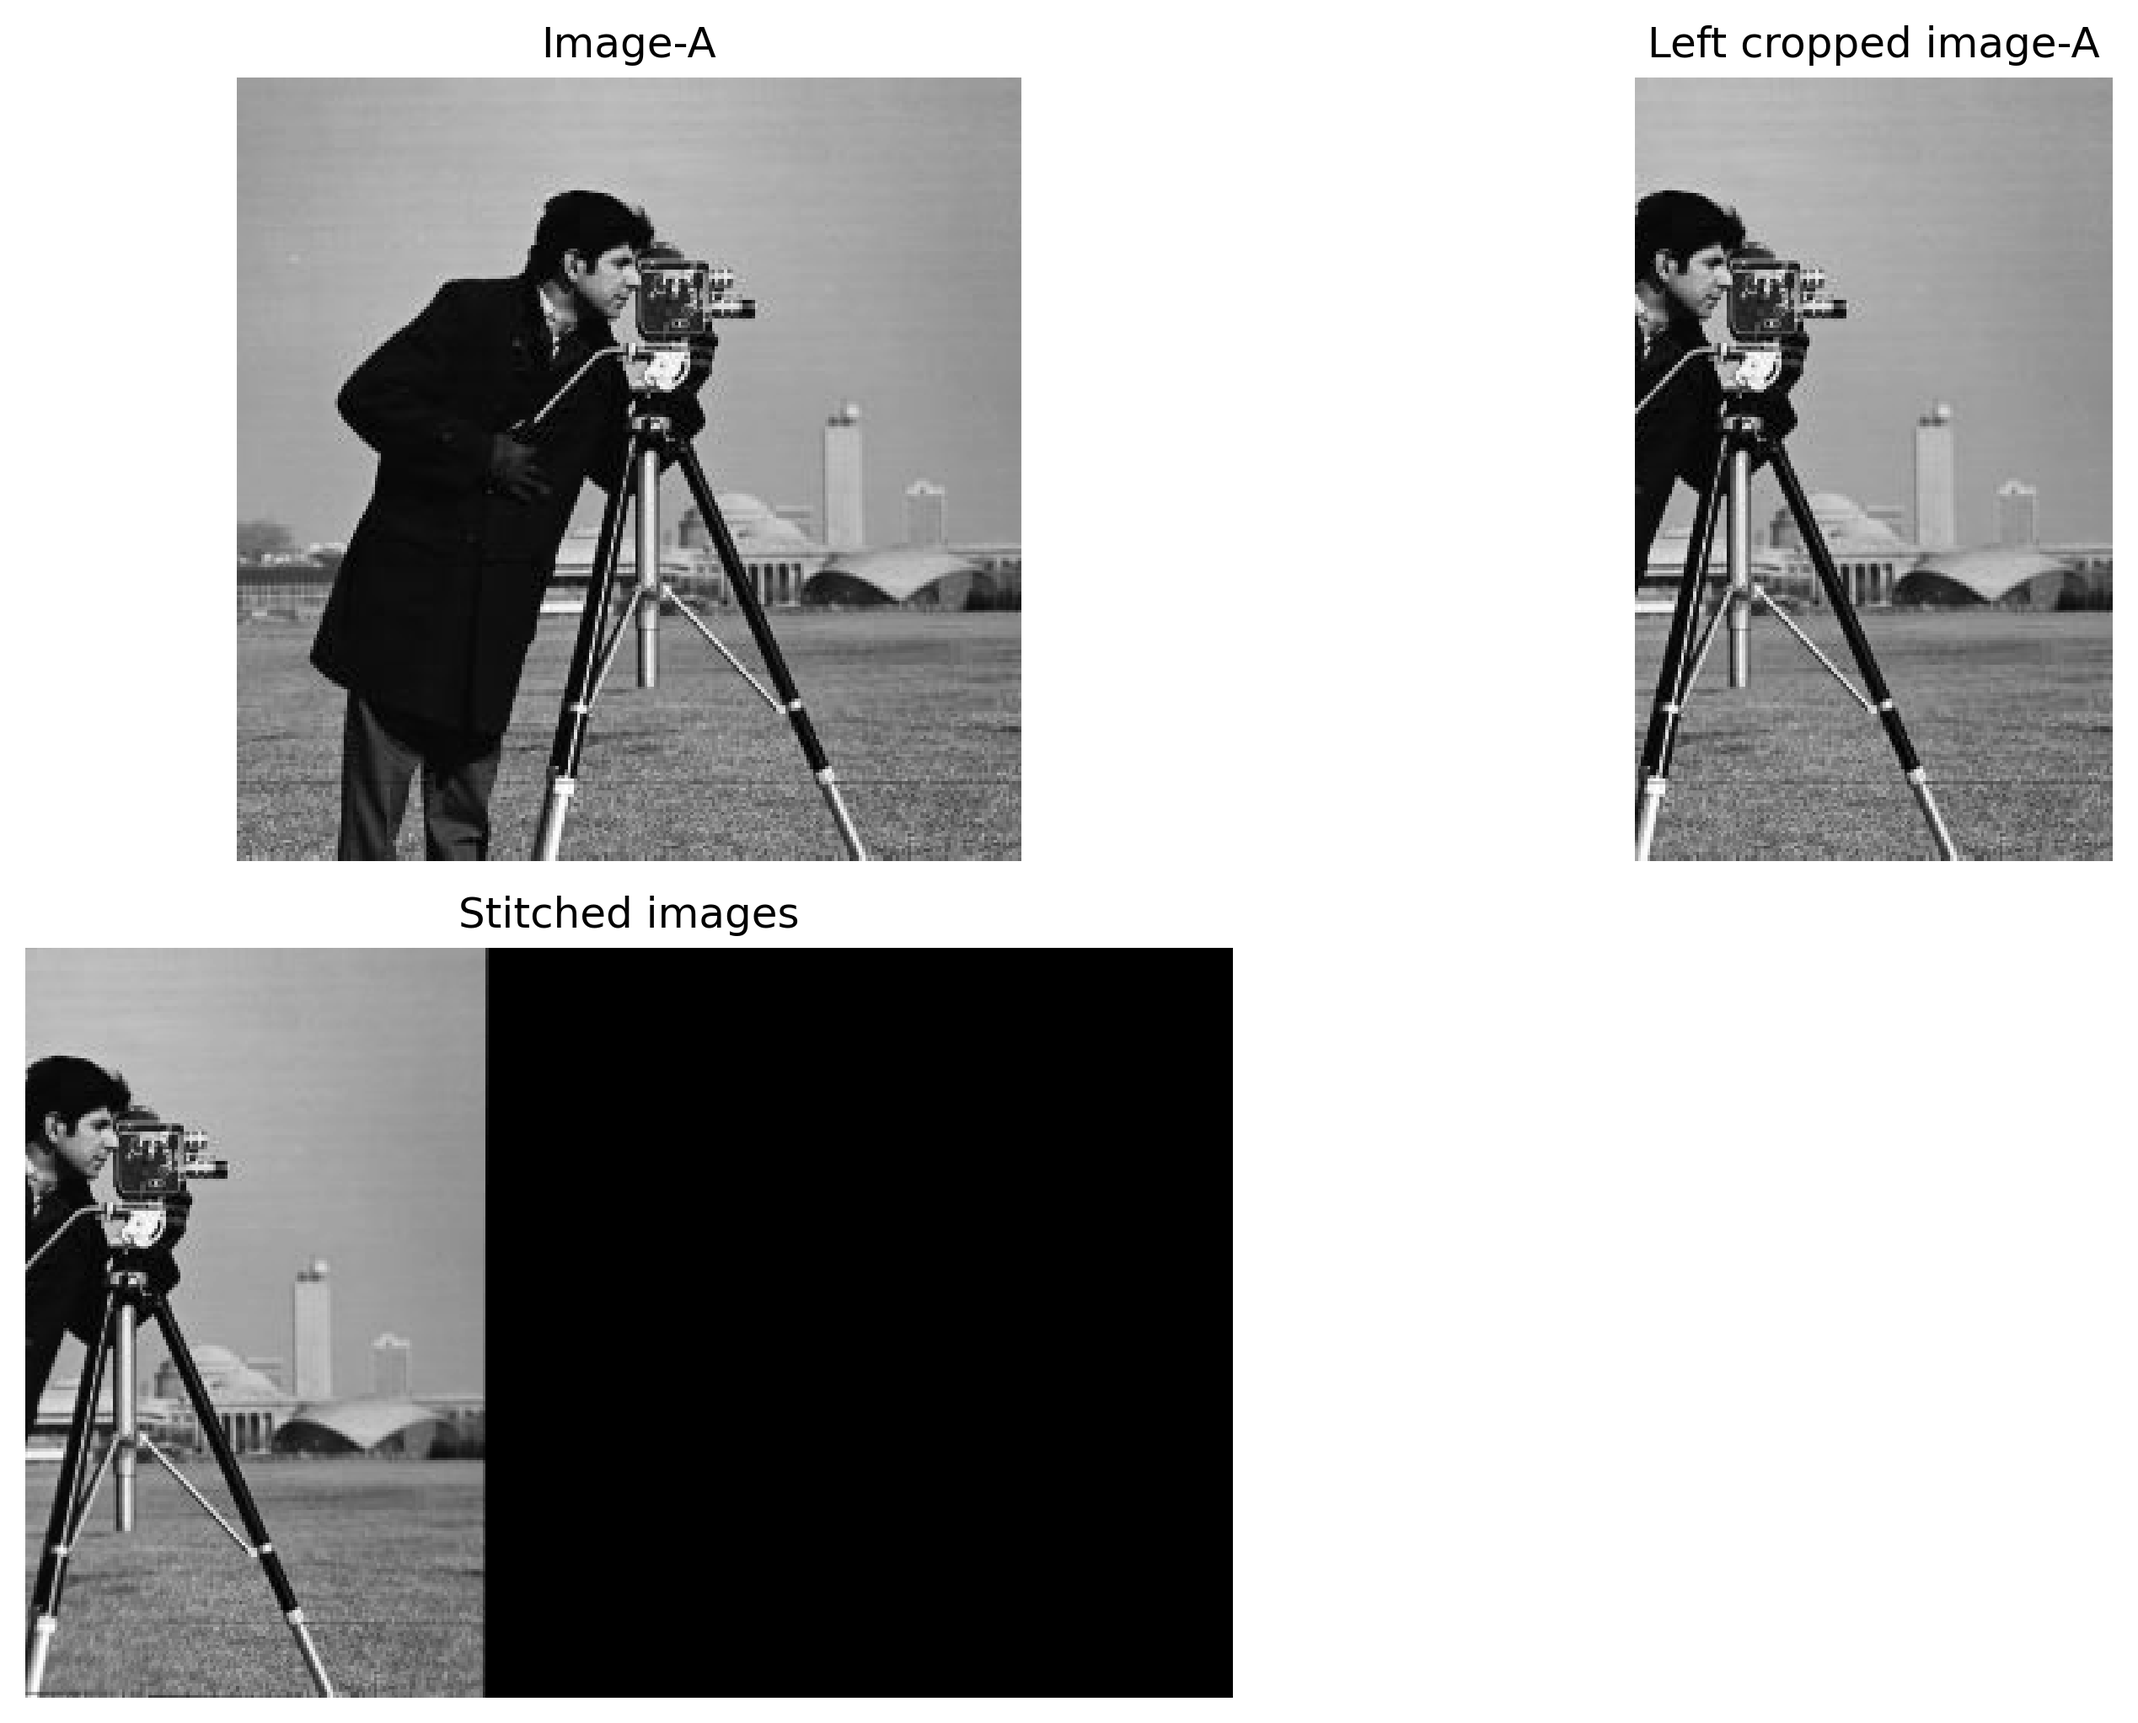
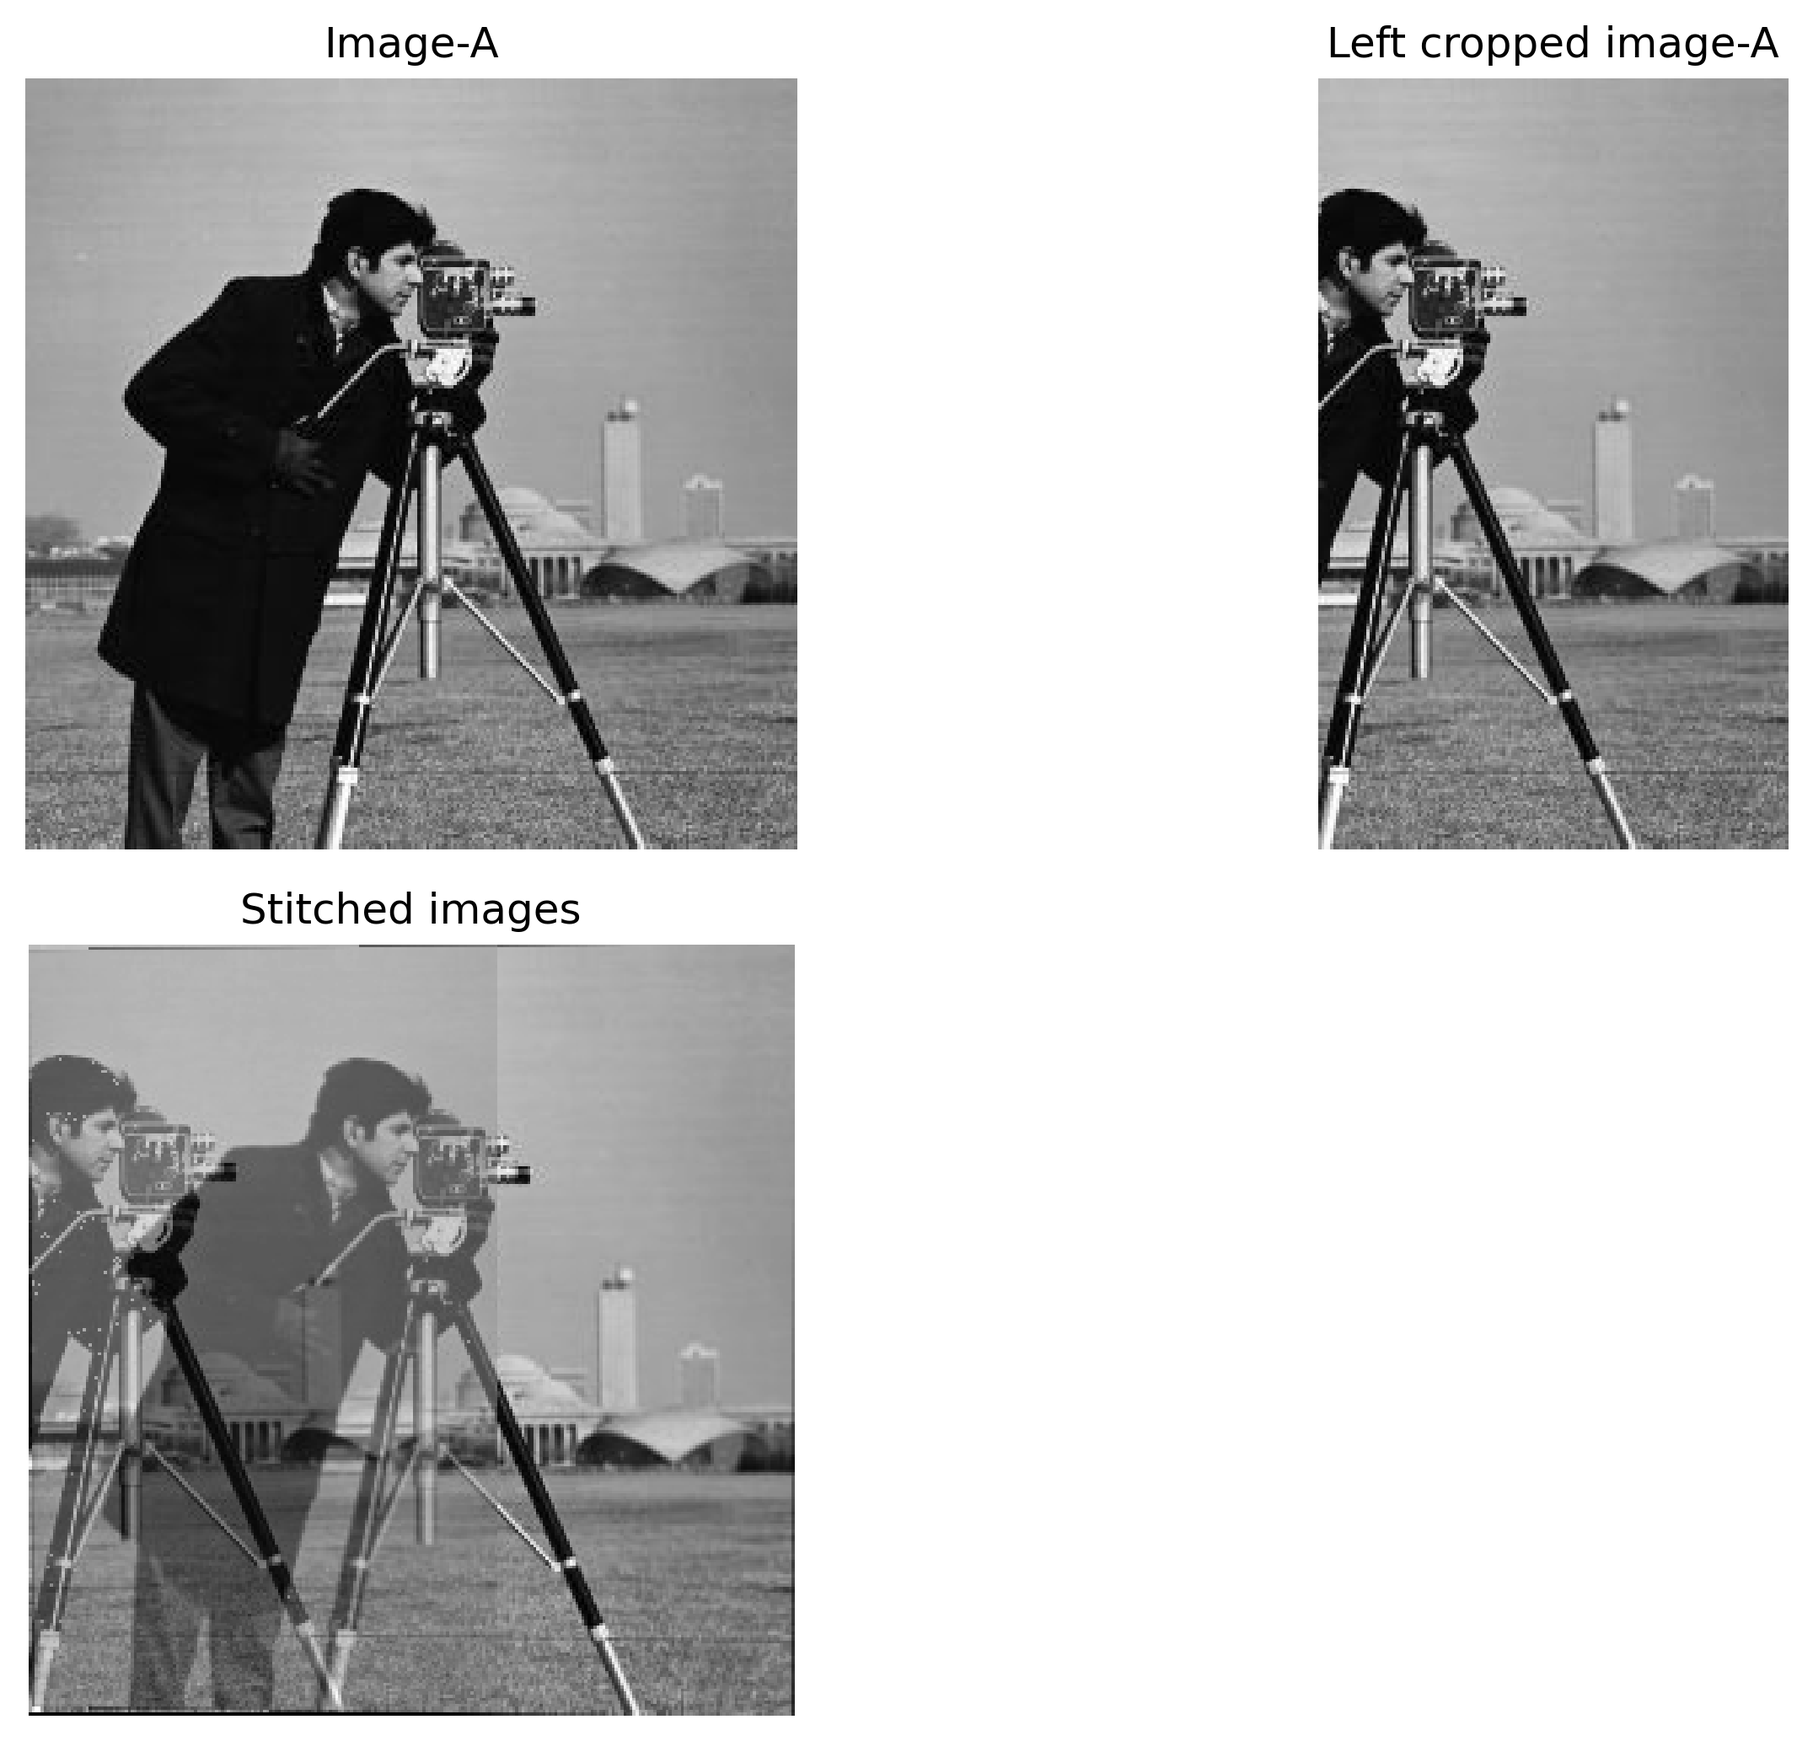
Improved image stitching with correct canvas size, blending, and combining images

diff --git a/src/image_processing/geometric_vision/image_stitching.py b/src/image_processing/geometric_vision/image_stitching.py
@@ -28,18 +28,40 @@ def img_stitcher(img_a: np.ndarray, img_b: np.ndarray):
     src_pts, dest_pts = get_src_dest_matches(img_a, img_b)
     # Getting homography matrix and mask
     H, mask = compute_homography(src_pts, dest_pts)
-    # Making canvas to fit both the images
+    # Making canvas that can accurately accomodate both the images
     h1, w1 = img_a.shape
+    # Getting the corners of img_a
+    img_a_corners = np.array([[0, 0],
+                              [w1, 0],
+                              [w1, h1],
+                              [0, h1]], dtype = np.float32).reshape(-1, 1, 2)
+    # Warping img_a_corners
+    warped_img_a_corners = cv2.perspectiveTransform(img_a_corners, H)
+    # Getting the corners of img_b
     h2, w2 = img_b.shape
-    c_w = w1 + w2
-    c_h = max(h1, h2)
-    # Initializing the canvas 
-    canvas = np.zeros((c_h, c_w), dtype = np.uint8)
+    img_b_corners = np.array([[0, 0],
+                              [w2, 0],
+                              [w2, h2],
+                              [0, h2]], dtype = np.float32).reshape(-1, 1, 2)
+    # Overall canvas corner
+    canvas_corners = np.concatenate((warped_img_a_corners, img_b_corners), axis = 0)
+    [x_min, y_min] = np.int32(canvas_corners.min(axis = 0).ravel())
+    [x_max, y_max] = np.int32(canvas_corners.max(axis = 0).ravel())
+    
     # Warp img_a
     # Now img_a has been warped in such a way that it stretches across the entire canvas
-    warped_img_a = cv2.warpPerspective(img_a, H, (c_w, c_h)) # Here it's width, height as OpenCV uses (width, height)
+    # We need translation matrix so that image-A is expanded to fit the canvas
+    T = np.array([[1, 0, -x_min], 
+                  [0, 1, -y_min], 
+                  [0, 0, 1]])
+    # T is multiplied with H to obtain the homography matrix that expands to fit the canvas
+    H = T @ H
+    w = x_max - x_min
+    h = y_max - y_min
+    warped_img_a = cv2.warpPerspective(img_a, H, (w, h)) # Here it's width, height as OpenCV uses (width, height)
     # Now we're placing img_b which is left cropped image_a on the top left of the canvas
     # Place img_b in the canvas
+    canvas = np.zeros((h, w), dtype = np.uint8)
     canvas[: h2, : w2] = img_b
     # Masks for non-zero pixel values
     mask_a = warped_img_a > 0
